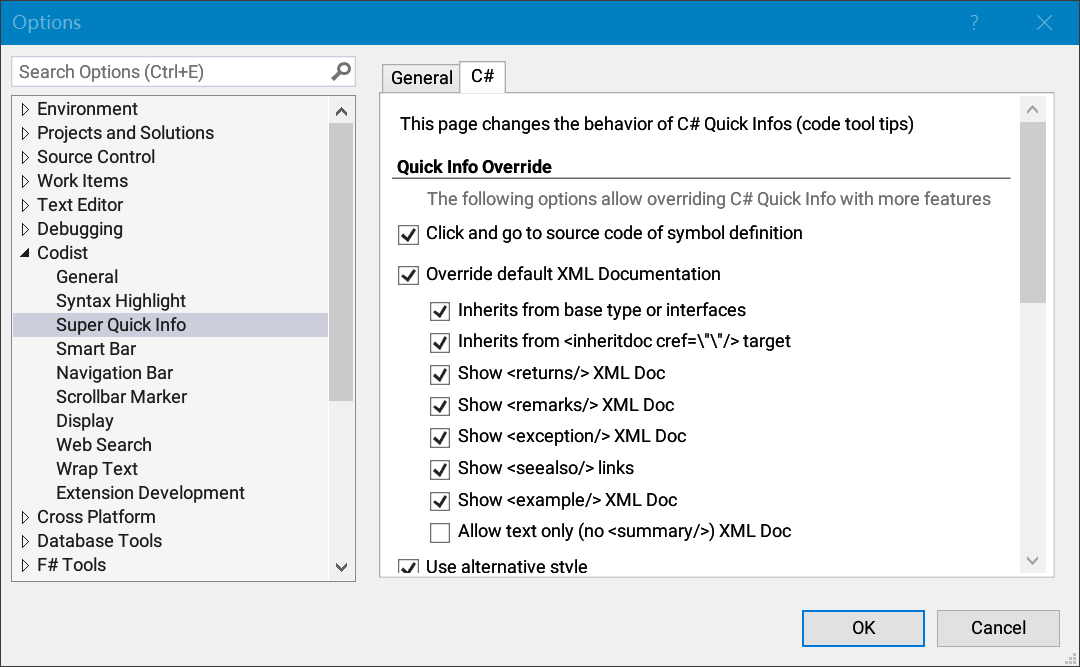
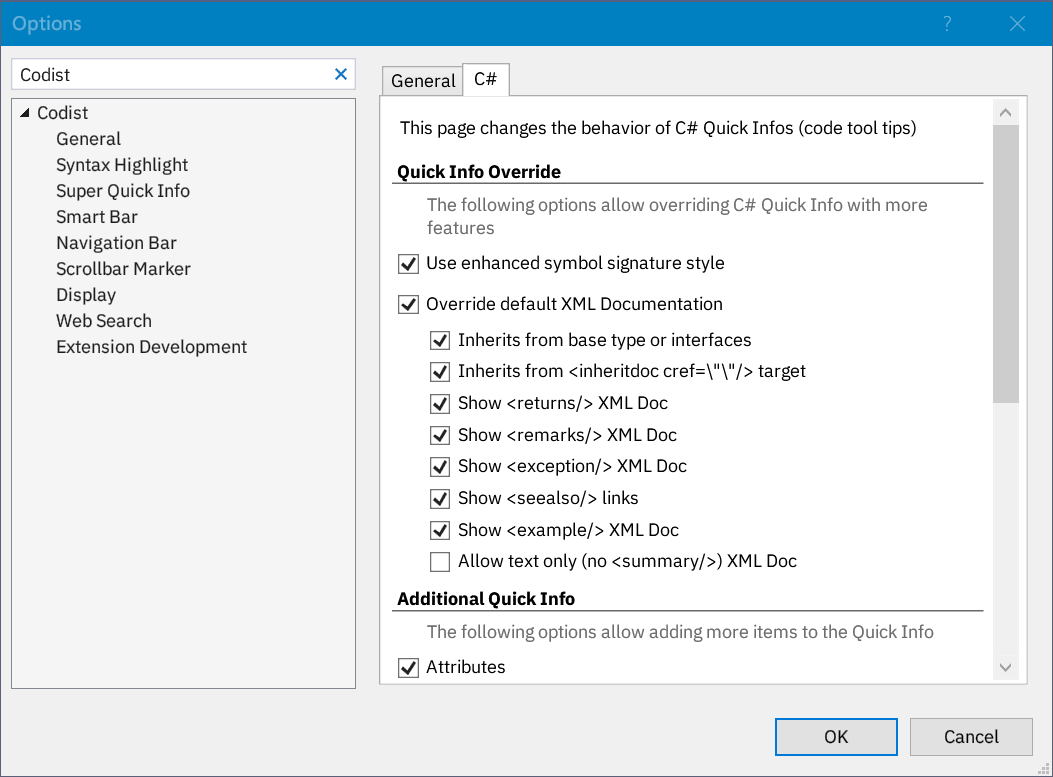
Version 6.6

diff --git a/Codist/Config.cs b/Codist/Config.cs
@@ -16,7 +16,7 @@ namespace Codist
 {
 	sealed class Config
 	{
-		internal const string CurrentVersion = "6.5.3";
+		internal const string CurrentVersion = "6.6.0";
 		const string ThemePrefix = "res:";
 		const int DefaultIconSize = 20;
 		internal const string LightTheme = ThemePrefix + "Light", PaleLightTheme = ThemePrefix + "PaleLight", DarkTheme = ThemePrefix + "Dark", PaleDarkTheme = ThemePrefix + "PaleDark", SimpleTheme = ThemePrefix + "Simple";

diff --git a/Codist/Properties/AssemblyInfo.cs b/Codist/Properties/AssemblyInfo.cs
@@ -11,5 +11,5 @@ using System.Runtime.InteropServices;
 [assembly: AssemblyTrademark(nameof(Codist))]
 [assembly: ComVisible(false)]
 [assembly: AssemblyVersion("6.0.0.0")]
-[assembly: AssemblyFileVersion(Codist.Config.CurrentVersion + ".7500")]
+[assembly: AssemblyFileVersion(Codist.Config.CurrentVersion + ".7700")]
 [assembly: NeutralResourcesLanguage("en-US", UltimateResourceFallbackLocation.Satellite)]

diff --git a/TestProject/Methods.cs b/TestProject/Methods.cs
@@ -9,7 +9,7 @@ namespace TestProject
 	internal class Methods : IDisposable
 	{
 		public Methods() {
-			M(null);
+			M("");
 		}
 
 		~Methods() {

diff --git a/README.md b/README.md
@@ -164,15 +164,12 @@ To customize the *Super Quick Info*, adjust the settings in the options page.
 
 _Super Quick Info_ especially enhances programming experience for C# programmers. There are plenty of options available in the options page.
 
-![Super Quick Info - Options](doc/super-quick-info-csharp-options.png)
+<img src="doc/super-quick-info-csharp-options.png" title="" alt="Super Quick Info - Options" width="617">
 
-* **Click and go** to source code of symbol definition
-  
-  If a symbol is defined in your source code, you can click and go to its definition on the Quick Info window. No need to hit `F12` on your keyboard any more! Even more, _Codist_ also tells you where the symbol is defined if you hover your mouse over it.
-  
-  ![Super Quick Info - Click and Go](doc/super-quick-info-click-go.png)
+* **Use enhanced symbol signature style** is a new setting in version 6.6, enabled by default, which optimizes the display of symbol signatures with a reorganized layout. The layout is especially optimized for long and complex signatures, yet ordinary short symbols can also benefit from it. The following is an example for the style. A large icon on the top-left part of the quick info can be clicked and brings out a menu for symbol analysis. Next to the icon is the name of the symbol with larger text size. Clicking on the name can jump to its definition. The parameters for the method are listed next. The reorganized layout never breaks the parameter type from its name, so it is easier to find out and locate each parameter type and name. Beneath the signature is the containing type of the symbol, as well the kind of the symbol. And the member type (return value) of the symbol is under the containing type.
+  ![C# optimized quick info](doc/csharp-optimized-quick-info.png)
 
-* A **Context menu** with many symbol analysis commands will show up when you right click the signature of the symbol definition or any symbol that appears in the XML Doc.
+* A **Context menu** with many symbol analysis commands will show up when you right click the signature of the symbol definition or any symbol that appears in the Super Quick Info.
   
   ![Super Quick Info Csharp Menu](doc/super-quick-info-csharp-menu.png)
 
@@ -209,8 +206,6 @@ When _Override XML Documentation_ checkbox is checked in the options page, it is
 _Codist_ shows XML Doc for those `namespace`s with an embedded `NamespaceDoc` class, like what is done in [SandCastle](https://github.com/EWSoftware/SHFB).
 
  ![Super Quick Info Csharp Namespace](doc/super-quick-info-csharp-namespace.png)
-
-* **Use alternative style** option moves the glyph of the symbol to the bottom-right of the quick info, and [removes individual hyperlinks within the symbol signature parts](https://github.com/wmjordan/Codist/issues/102), which comes with Visual Studio 2019 update 3, in order to make it easier to use the _Click and Go_ feature on the symbol.
 
 ### Additional Quick Info Items
 
@@ -478,17 +473,21 @@ Press the "Save" button to save the settings and Codist will change build number
 
 In the *Display* tab of the *General* options page, several display enhancement options are offered.
 
-![General Options Display](doc/display-options.png)
+<img src="doc/display-options.png" title="" alt="General Options Display" width="783">
 
-  Within the *Extra line margins* group box, you can adjust margins between lines to make code lines more readable.
+Within the *Extra line margins* group box, you can adjust margins between lines to make code lines more readable.
 
-  Programmers who do not like *ClearType* rendering, which made text blurry and colorful, may want to try _Force Grayscale Text Rendering_ options.
+Programmers who do not like *ClearType* rendering, which made text blurry and colorful, may want to try _Force Grayscale Text Rendering_ options.
+
+From version 6.6 on, resource monitors can be used to monitorCPU, disk and memory usage via the status bar on Visual Studio. Checking the *Monitor CPU*, *Monitor disk* or _Monitor memory_ check box enables the corresponding monitors.
+
+![Resource Monitors](doc/resource-monitors.png)
 
 It is possible to use Compact menu like _Visual Studio 2019_ in _Visual Studio 2017_. Simply checking the _Move main menu to title bar_ option will do.
 
 ![Compact Menu](doc/compact-menu.png)
 
-From version 6.3 on, it is possible to hide some elements from the user interface of Visual Studio from options under the _Layout Override_ section.
+By checking the check boxes started with "Hide...", it is possible to hide some elements from the user interface of Visual Studio from options under the _Layout Override_ section.
 
 ## Jump List Shortcuts
 
